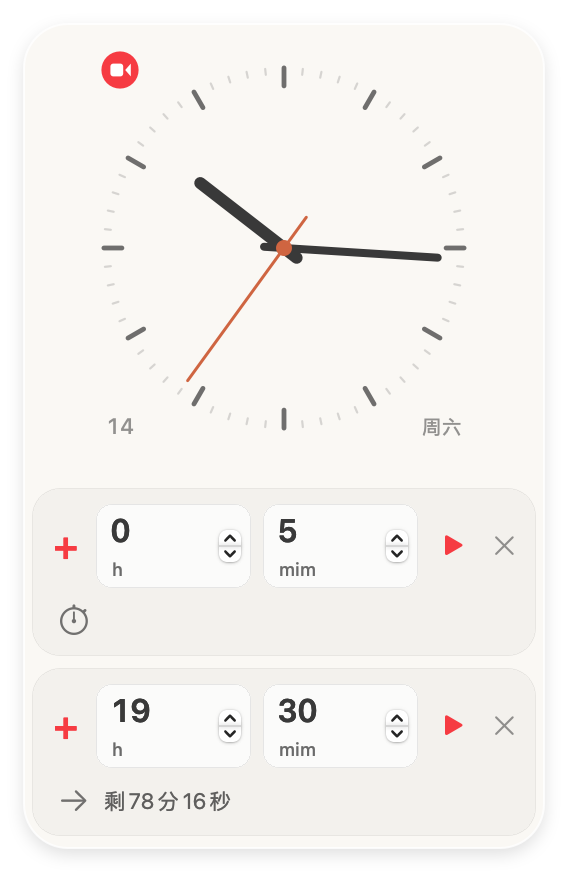
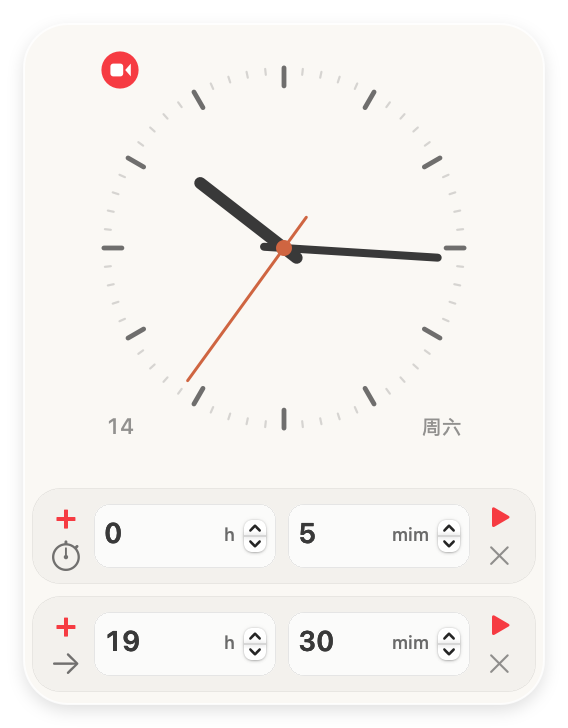
fix: polish timer input and interaction

diff --git a/Sources/FloatingClock/TimerTrayView.swift b/Sources/FloatingClock/TimerTrayView.swift
@@ -1,17 +1,24 @@
 import AppKit
 import ClockCore
 
+final class TimerActionButton: NSButton {
+    // Borderless image buttons have different optical insets from text buttons.
+    // Use their physical bounds so each compact column has equal, separate hits.
+    override var alignmentRectInsets: NSEdgeInsets { NSEdgeInsetsZero }
+}
+
 final class TimerRowView: NSView {
+    var preferredHeight: CGFloat { statusLabel.isHidden ? 48 : 64 }
     let id: UUID
-    let signButton = NSButton(title: "+", target: nil, action: nil)
+    let signButton = TimerActionButton(title: "+", target: nil, action: nil)
     let timeField = NSTextField(string: "")
     let durationInput = TimerTimeInput(kind: .duration)
     let targetInput = TimerTimeInput(kind: .targetTime)
-    let primaryButton = NSButton()
-    let deleteButton = NSButton()
-    let kindButton = NSButton()
+    let primaryButton = TimerActionButton()
+    let deleteButton = TimerActionButton()
+    let kindButton = TimerActionButton()
     let statusLabel = NSTextField(labelWithString: "")
-    let resetButton = NSButton(title: "重设", target: nil, action: nil)
+    let resetButton = TimerActionButton()
     var onSign: (() -> Void)?
     var onPrimary: (() -> Void)?
     var onDelete: (() -> Void)?
@@ -32,7 +39,7 @@ final class TimerRowView: NSView {
         wantsLayer = true
         layer?.cornerRadius = 14
         layer?.borderWidth = 0.5
-        signButton.font = .systemFont(ofSize: 20, weight: .medium)
+        signButton.font = .systemFont(ofSize: 17, weight: .medium)
         signButton.target = self; signButton.action = #selector(toggleSign)
         primaryButton.target = self; primaryButton.action = #selector(primary)
         deleteButton.target = self; deleteButton.action = #selector(deleteTimer)
@@ -40,8 +47,10 @@ final class TimerRowView: NSView {
         deleteButton.toolTip = "删除这组计时"
         deleteButton.setAccessibilityLabel("删除计时")
         resetButton.target = self; resetButton.action = #selector(resetTimer)
-        resetButton.font = .systemFont(ofSize: 11)
+        resetButton.image = NSImage(systemSymbolName: "arrow.counterclockwise", accessibilityDescription: "重设计时")
+        resetButton.setAccessibilityLabel("重设计时")
         resetButton.toolTip = "停止后重新设置时间"
+        resetButton.isHidden = true
         for button in [signButton, kindButton, primaryButton, deleteButton, resetButton] { button.isBordered = false }
         timeField.font = .monospacedDigitSystemFont(ofSize: 16, weight: .medium)
         timeField.isBezeled = false
@@ -66,29 +75,35 @@ final class TimerRowView: NSView {
         kindButton.target = self; kindButton.action = #selector(kindChanged)
         kindButton.imageScaling = .scaleProportionallyDown
         kindButton.symbolConfiguration = NSImage.SymbolConfiguration(pointSize: 14, weight: .regular)
-        statusLabel.font = .systemFont(ofSize: 11)
+        statusLabel.font = .systemFont(ofSize: 9)
         statusLabel.lineBreakMode = .byTruncatingTail
-        let line = NSStackView(views: [signButton, durationInput, targetInput, timeField, primaryButton, deleteButton])
-        line.orientation = .horizontal; line.alignment = .centerY; line.spacing = 5; line.distribution = .fill
-        let detail = NSStackView(views: [kindButton, statusLabel, NSView(), resetButton])
-        detail.orientation = .horizontal; detail.alignment = .centerY; detail.spacing = 4
-        for view in [line, detail] { view.translatesAutoresizingMaskIntoConstraints = false; addSubview(view) }
+        let leftControls = NSStackView(views: [signButton, kindButton, resetButton])
+        let rightControls = NSStackView(views: [primaryButton, deleteButton])
+        for column in [leftControls, rightControls] {
+            column.orientation = .vertical
+            column.alignment = .centerX
+            column.distribution = .fill
+            column.spacing = 1
+        }
+        let line = NSStackView(views: [leftControls, durationInput, targetInput, timeField, rightControls])
+        line.orientation = .horizontal; line.alignment = .centerY; line.spacing = 4; line.distribution = .fill
+        for view in [line, statusLabel] { view.translatesAutoresizingMaskIntoConstraints = false; addSubview(view) }
         NSLayoutConstraint.activate([
             line.leadingAnchor.constraint(equalTo: leadingAnchor, constant: 7),
             line.trailingAnchor.constraint(equalTo: trailingAnchor, constant: -7),
-            line.topAnchor.constraint(equalTo: topAnchor, constant: 8),
-            line.heightAnchor.constraint(equalToConstant: 42),
-            detail.leadingAnchor.constraint(equalTo: leadingAnchor, constant: 10),
-            detail.trailingAnchor.constraint(equalTo: trailingAnchor, constant: -10),
-            detail.topAnchor.constraint(equalTo: line.bottomAnchor, constant: 5),
-            detail.heightAnchor.constraint(equalToConstant: 23),
-            signButton.widthAnchor.constraint(equalToConstant: 20),
-            primaryButton.widthAnchor.constraint(equalToConstant: 24),
-            deleteButton.widthAnchor.constraint(equalToConstant: 18),
-            kindButton.widthAnchor.constraint(equalToConstant: 22),
-            kindButton.heightAnchor.constraint(equalToConstant: 22),
-            resetButton.widthAnchor.constraint(equalToConstant: 32)
+            line.centerYAnchor.constraint(equalTo: centerYAnchor),
+            line.heightAnchor.constraint(equalToConstant: 38),
+            statusLabel.leadingAnchor.constraint(equalTo: leadingAnchor, constant: 10),
+            statusLabel.trailingAnchor.constraint(equalTo: trailingAnchor, constant: -10),
+            statusLabel.bottomAnchor.constraint(equalTo: bottomAnchor, constant: -2),
+            statusLabel.heightAnchor.constraint(equalToConstant: 10),
+            leftControls.widthAnchor.constraint(equalToConstant: 20),
+            rightControls.widthAnchor.constraint(equalToConstant: 22)
         ])
+        for button in [signButton, kindButton, resetButton, primaryButton, deleteButton] {
+            button.widthAnchor.constraint(equalToConstant: 18).isActive = true
+            button.heightAnchor.constraint(equalToConstant: 18).isActive = true
+        }
     }
 
     required init?(coder: NSCoder) { fatalError("init(coder:) is not supported") }
@@ -135,10 +150,6 @@ final class TimerRowView: NSView {
             case .idle:
                 if editingDuration && durationInput.remainingSeconds > 0 {
                     statusLabel.stringValue = "另含 \(durationInput.remainingSeconds)秒"
-                } else if timer.inputKind == .targetTime,
-                          let target = try? TimerInputParser.targetDate(timer.input, now: now) {
-                    let remaining = TimerDisplayFormat.totalMinutes.string(seconds: target.timeIntervalSince(now), countingDown: true)
-                    statusLabel.stringValue = "剩\(remaining)"
                 } else { statusLabel.stringValue = "" }
             case .running: statusLabel.stringValue = timer.isOvertime ? "时间到了 · 正在累计超时" : (timer.mode == .elapsed ? "正在累计" : "倒计时中 · 到时通知")
             case .paused: statusLabel.stringValue = timer.isOvertime ? "超时已停止 · 可继续" : "已停止 · 可继续"
@@ -178,7 +189,7 @@ final class TimerRowView: NSView {
     @objc private func toggleSign() { window?.makeFirstResponder(nil); onSign?() }
     @objc private func primary() {
         guard window?.makeFirstResponder(nil) != false else { return }
-        if isIdle && currentInputKind == .targetTime { targetInput.commit() }
+        if isIdle { (currentInputKind == .targetTime ? targetInput : durationInput).commit() }
         onPrimary?()
     }
     @objc private func deleteTimer() { window?.makeFirstResponder(nil); onDelete?() }
@@ -198,12 +209,13 @@ final class TimerRowView: NSView {
 }
 
 final class TimerTrayView: NSView {
+    private static let rowSpacing: CGFloat = 6
     private let notice = NSTextField(labelWithString: "")
     private(set) var rows: [TimerRowView] = []
     var coordinator: TimerCoordinator?
 
-    static func height(count: Int, hasNotice: Bool) -> CGFloat {
-        count == 0 ? 0 : 8 + CGFloat(count) * 90 + (hasNotice ? 32 : 0)
+    var contentHeight: CGFloat {
+        rows.isEmpty ? 0 : 8 + rows.reduce(0) { $0 + $1.preferredHeight + Self.rowSpacing } + (notice.isHidden ? 0 : 32)
     }
 
     override init(frame frameRect: NSRect) {
@@ -254,8 +266,11 @@ final class TimerTrayView: NSView {
 
     override func layout() {
         super.layout()
-        for (index, row) in rows.enumerated() {
-            row.frame = CGRect(x: 4, y: bounds.height - 8 - CGFloat(index + 1) * 90 + 6, width: bounds.width - 8, height: 84)
+        var top = bounds.height - 8
+        for row in rows {
+            row.frame = CGRect(x: 4, y: top - row.preferredHeight,
+                               width: bounds.width - 8, height: row.preferredHeight)
+            top = row.frame.minY - Self.rowSpacing
         }
         notice.frame = CGRect(x: 10, y: 8, width: bounds.width - 20, height: 18)
     }

diff --git a/Sources/FloatingClock/RuntimeChecks.swift b/Sources/FloatingClock/RuntimeChecks.swift
@@ -293,6 +293,43 @@ enum RuntimeChecks {
         check(timerPanel.timerTray.rows.allSatisfy { $0.bounds.contains($0.convert($0.deleteButton.bounds, from: $0.deleteButton)) },
               "timer row controls fit within the expanded card")
         let row = timerPanel.timerTray.rows[0]
+        func stackedButtons(in row: TimerRowView) -> Bool {
+            let left = [row.signButton, row.kindButton, row.resetButton].filter { !$0.isHidden }
+                .map { row.convert($0.bounds, from: $0) }
+            let right = [row.primaryButton, row.deleteButton].map { row.convert($0.bounds, from: $0) }
+            func validColumn(_ frames: [CGRect]) -> Bool {
+                frames.allSatisfy { row.bounds.contains($0) && abs($0.midX - frames[0].midX) < 1 } &&
+                zip(frames, frames.dropFirst()).allSatisfy { !$0.intersects($1) }
+            }
+            let leftBounds = left.reduce(CGRect.null) { $0.union($1) }
+            let rightBounds = right.reduce(CGRect.null) { $0.union($1) }
+            return validColumn(left) && validColumn(right) && abs(leftBounds.midY - rightBounds.midY) < 1 &&
+                abs(leftBounds.midY - row.bounds.midY) < 1
+        }
+        timerPanel.makeFirstResponder(row.durationInput.minutes.field)
+        row.durationInput.minutes.field.selectText(nil)
+        if let editor = row.durationInput.minutes.field.currentEditor() as? NSTextView {
+            editor.insertText("9999", replacementRange: editor.selectedRange())
+            editor.insertText("9", replacementRange: NSRange(location: editor.string.utf16.count, length: 0))
+        }
+        let fifthDigitWasRejected = row.durationInput.minutes.field.currentEditor()?.string == "9999"
+        row.durationInput.minutes.field.selectText(nil)
+        if let editor = row.durationInput.minutes.field.currentEditor() as? NSTextView {
+            editor.insertText("1234567", replacementRange: editor.selectedRange())
+        }
+        check(fifthDigitWasRejected && row.durationInput.minutes.field.currentEditor()?.string == "9999",
+              "number fields immediately reject a fifth digit and a paste longer than four digits")
+        timerPanel.makeFirstResponder(nil)
+        row.durationInput.hours.update(value: 9999)
+        row.durationInput.minutes.update(value: 9999)
+        row.durationInput.commit()
+        timerPanel.face.layoutSubtreeIfNeeded()
+        let fourDigitWidth = ceil("9999".size(withAttributes: [.font: row.durationInput.hours.field.font!]).width) + 4
+        check(stackedButtons(in: row) && timerPanel.frame.width == 284 && [row.durationInput.hours, row.durationInput.minutes].allSatisfy { input in
+            input.field.bounds.width >= fourDigitWidth && row.bounds.contains(row.convert(input.stepper.bounds, from: input.stepper))
+        } && row.durationInput.hours.value == 9999 && row.durationInput.minutes.value == 9999,
+              "both four-digit inputs fit at the original window width with buttons stacked on each side")
+        timers.editInput(row.id, text: "5")
         row.durationInput.minutes.field.integerValue = 90
         row.durationInput.minutes.controlTextDidEndEditing(Notification(name: NSControl.textDidEndEditingNotification))
         check(!row.durationInput.isHidden && row.timeField.isHidden && row.durationInput.hours.value == 1 && row.durationInput.minutes.value == 30,
@@ -324,6 +361,8 @@ enum RuntimeChecks {
         row.primaryButton.performClick(nil)
         check(timers.timers[0].state == .paused && scheduler.cancelled.contains(row.id),
               "stop preserves remaining time and cancels its pending notification")
+        timerPanel.face.layoutSubtreeIfNeeded()
+        check(!row.resetButton.isHidden && stackedButtons(in: row), "the paused timer reset icon joins the left button column")
         row.resetButton.performClick(nil)
         check(timers.timers[0].state == .idle && !row.durationInput.isHidden && row.durationInput.minutes.field.isEditable,
               "reset restores the editable input")
@@ -395,7 +434,7 @@ enum RuntimeChecks {
             check(timers.timers.count == 2 && tray.rows.count == 2 && attachedRows.count == 2 &&
                   Set(attachedRows.map(\.id)) == Set(timers.timers.map(\.id)) && !attachedRows.contains { $0.id == removed },
                   "deleting row \(deletedIndex + 1) while the last input is focused leaves exactly two attached rows")
-            check(tray.rows.allSatisfy { tray.bounds.contains($0.frame) && $0.frame.height == 84 } &&
+            check(tray.rows.allSatisfy { tray.bounds.contains($0.frame) && $0.frame.height == $0.preferredHeight } &&
                   !tray.rows[0].frame.intersects(tray.rows[1].frame),
                   "deleting row \(deletedIndex + 1) keeps the two remaining row frames separate inside the tray")
             for id in timers.timers.map(\.id) { timers.remove(id) }
@@ -642,6 +681,15 @@ enum RuntimeChecks {
                             panel.appearance?.performAsCurrentDrawingAppearance { view.cacheDisplay(in: view.bounds, to: editors) }
                             try editors.representation(using: .png, properties: [:])!.write(
                                 to: URL(fileURLWithPath: directory).appendingPathComponent("timer-editors-\(appearance.rawValue)-\(count)-\(side).png"))
+                            if count == 1 {
+                                timers.editInput(added, text: "9999小时9999分钟")
+                                panel.face.layoutSubtreeIfNeeded()
+                                let full = view.bitmapImageRepForCachingDisplay(in: view.bounds)!
+                                panel.appearance?.performAsCurrentDrawingAppearance { view.cacheDisplay(in: view.bounds, to: full) }
+                                try full.representation(using: .png, properties: [:])!.write(
+                                    to: URL(fileURLWithPath: directory).appendingPathComponent("timer-four-digits-\(appearance.rawValue)-\(side).png"))
+                                timers.editInput(added, text: "5")
+                            }
                         }
                     }
                     panel.hideClock()

diff --git a/Sources/FloatingClock/TimerTimeInput.swift b/Sources/FloatingClock/TimerTimeInput.swift
@@ -1,6 +1,25 @@
 import AppKit
 import ClockCore
 
+private final class TimerNumberFormatter: NumberFormatter, @unchecked Sendable {
+    private func allows(_ text: String) -> Bool {
+        text.count <= 4 && text.allSatisfy { $0.isASCII && $0.isNumber }
+    }
+
+    override func isPartialStringValid(_ partialString: String,
+                                      newEditingString: AutoreleasingUnsafeMutablePointer<NSString?>?,
+                                      errorDescription: AutoreleasingUnsafeMutablePointer<NSString?>?) -> Bool {
+        allows(partialString)
+    }
+
+    override func isPartialStringValid(_ partialStringPtr: AutoreleasingUnsafeMutablePointer<NSString>,
+                                      proposedSelectedRange: NSRangePointer?, originalString: String,
+                                      originalSelectedRange: NSRange,
+                                      errorDescription: AutoreleasingUnsafeMutablePointer<NSString?>?) -> Bool {
+        allows(partialStringPtr.pointee as String)
+    }
+}
+
 /// A number field with a native up/down stepper and a persistent unit label.
 final class TimerNumberInput: NSView, NSTextFieldDelegate {
     let field = NSTextField(string: "0")
@@ -19,23 +38,26 @@ final class TimerNumberInput: NSView, NSTextFieldDelegate {
         wantsLayer = true
         layer?.cornerRadius = 8
         layer?.borderWidth = 0.5
-        let formatter = NumberFormatter()
+        let formatter = TimerNumberFormatter()
         formatter.numberStyle = .none
         formatter.allowsFloats = false
         formatter.minimumIntegerDigits = minimumDigits
         formatter.minimum = 0
         formatter.maximum = NSNumber(value: maximum)
+        formatter.isPartialStringValidationEnabled = true
         field.formatter = formatter
         field.isBezeled = false
         field.drawsBackground = false
         field.focusRingType = .none
-        field.font = .monospacedDigitSystemFont(ofSize: 16, weight: .semibold)
+        field.font = .monospacedDigitSystemFont(ofSize: 14, weight: .semibold)
         field.usesSingleLineMode = true
         field.cell?.sendsActionOnEndEditing = false
         field.delegate = self
         field.setAccessibilityLabel(accessibilityLabel ?? unit)
         field.setContentCompressionResistancePriority(.defaultLow, for: .horizontal)
         unitLabel.font = .systemFont(ofSize: 9, weight: .medium)
+        unitLabel.setContentHuggingPriority(.required, for: .horizontal)
+        unitLabel.setContentCompressionResistancePriority(.required, for: .horizontal)
         stepper.minValue = 0
         stepper.maxValue = Double(maximum)
         stepper.increment = 1
@@ -50,14 +72,15 @@ final class TimerNumberInput: NSView, NSTextFieldDelegate {
             addSubview(view)
         }
         NSLayoutConstraint.activate([
-            widthAnchor.constraint(greaterThanOrEqualToConstant: 60),
-            heightAnchor.constraint(equalToConstant: 42),
-            field.leadingAnchor.constraint(equalTo: leadingAnchor, constant: 7),
-            field.trailingAnchor.constraint(equalTo: stepper.leadingAnchor, constant: -2),
-            field.topAnchor.constraint(equalTo: topAnchor, constant: 4),
+            widthAnchor.constraint(greaterThanOrEqualToConstant: 90),
+            heightAnchor.constraint(equalToConstant: 32),
+            field.leadingAnchor.constraint(equalTo: leadingAnchor, constant: 5),
+            field.trailingAnchor.constraint(equalTo: unitLabel.leadingAnchor, constant: -4),
+            field.centerYAnchor.constraint(equalTo: centerYAnchor),
             field.heightAnchor.constraint(equalToConstant: 21),
-            unitLabel.leadingAnchor.constraint(equalTo: field.leadingAnchor, constant: 1),
-            unitLabel.bottomAnchor.constraint(equalTo: bottomAnchor, constant: -4),
+            field.widthAnchor.constraint(greaterThanOrEqualToConstant: ceil("9999".size(withAttributes: [.font: field.font!]).width) + 4),
+            unitLabel.firstBaselineAnchor.constraint(equalTo: field.firstBaselineAnchor),
+            unitLabel.trailingAnchor.constraint(equalTo: stepper.leadingAnchor, constant: -4),
             stepper.trailingAnchor.constraint(equalTo: trailingAnchor, constant: -5),
             stepper.centerYAnchor.constraint(equalTo: centerYAnchor)
         ])
@@ -120,8 +143,8 @@ final class TimerTimeInput: NSStackView {
 
     init(kind: ClockTimerInput) {
         self.kind = kind
-        hours = TimerNumberInput(unit: "h", maximum: kind == .duration ? 16_666 : 23, minimumDigits: kind == .duration ? 1 : 2, accessibilityLabel: "小时")
-        minutes = TimerNumberInput(unit: "mim", maximum: kind == .duration ? 999_999 : 59, minimumDigits: kind == .duration ? 1 : 2, accessibilityLabel: "分钟")
+        hours = TimerNumberInput(unit: "h", maximum: kind == .duration ? 9_999 : 23, minimumDigits: kind == .duration ? 1 : 2, accessibilityLabel: "小时")
+        minutes = TimerNumberInput(unit: "mim", maximum: kind == .duration ? 9_999 : 59, minimumDigits: kind == .duration ? 1 : 2, accessibilityLabel: "分钟")
         super.init(frame: .zero)
         orientation = .horizontal
         distribution = .fillEqually
@@ -164,8 +187,9 @@ final class TimerTimeInput: NSStackView {
         guard let seconds = try? TimerInputParser.duration(unsigned) else { return }
         let whole = Int(seconds)
         remainingSeconds = seconds.truncatingRemainder(dividingBy: 60)
-        hours.update(value: whole / 3600)
-        minutes.update(value: whole / 60 % 60)
+        let displayedHours = min(9_999, whole / 3600)
+        hours.update(value: displayedHours)
+        minutes.update(value: (whole - displayedHours * 3600) / 60)
     }
 
     func apply(ink: NSColor, dark: Bool) {

diff --git a/Sources/FloatingClock/ClockPanel.swift b/Sources/FloatingClock/ClockPanel.swift
@@ -94,11 +94,10 @@ final class ClockPanel: NSPanel, NSWindowDelegate {
     }
 
     func refreshTimers() {
-        let height = TimerTrayView.height(count: timerCoordinator?.timers.count ?? 0,
-                                         hasNotice: timerCoordinator?.notificationMessage != nil)
+        timerTray.refresh(settings: settings)
+        let height = timerTray.contentHeight
         let newFooterHeight: CGFloat = timerCoordinator?.timers.count == 1 ? 28 : 0
         timerHint.isHidden = newFooterHeight == 0
-        timerTray.refresh(settings: settings)
         timerTray.isHidden = height == 0
         if height != trayHeight || footerHeight != newFooterHeight {
             let dial = clockScreenFrame

diff --git a/README.md b/README.md
@@ -157,11 +157,11 @@ open dist/FloatingClock.app
 | 重设 | 停止或结束后回到可编辑状态 |
 | `×` | 删除这一组，同时取消它的待发送通知 |
 
-计时区已去掉顶部数量标题和“设置后点 ▶”提示。左下角的机械计时器图标表示时长，箭头表示到点时间，点击该图标即可切换。只有一组计时时，窗口最底部显示“＋ 倒计时 · − 累计时间”；两组及以上时隐藏。
+计时区已去掉顶部数量标题和“设置后点 ▶”提示。左侧按钮上下叠放：正负号在上，机械计时器／箭头模式图标在下，点击模式图标即可切换。右侧开始／删除也上下叠放；停止后的重设图标位于左侧。只有一组计时时，窗口最底部显示“＋ 倒计时 · − 累计时间”；两组及以上时隐藏。
 
-时长通过两个独立的 **小时 / 分钟数字框** 设置（单位显示为小写 `h`、`mim`），每个框旁都有原生上下箭头，可直接输入数字或点击调节。修改完成后点击 ▶ 或按回车开始。分钟也可填 `90`，提交后会自动换算为 `1 小时 30 分钟`。旧版保存的混合单位时长会自动显示在新控件中，其中的秒数会保留并在下方提示。
+时长通过两个独立的 **小时 / 分钟数字框** 设置（单位显示为小写 `h`、`mim`），数字与单位排在同一行，每个框旁都有原生上下箭头，可直接输入数字或点击调节。每框最多四位数字（0～9999），第五位及超过四位的粘贴会即时拒绝；到点时间仍限制为 00～23 时、00～59 分。窗口保持原宽度，四位数字均可完整显示。修改完成后点击 ▶ 或按回车开始。分钟也可填 `90`，提交后会自动换算为 `1 小时 30 分钟`。旧版保存的混合单位时长会自动显示在新控件中，其中的秒数会保留并在下方提示。
 
-例如，`＋00分02秒 → ＋00分01秒 → −00分00秒 → −00分01秒`。负数表示已经超过设定时间多久，直到停止或删除；停止后可继续累计。到点提醒同样会在到点后进入超时计时。到点时间使用与时长相同的两个数字框，小时范围为 00～23，分钟为 00～59。小时输入两位后，光标自动跳到分钟框并选中原值，连续键入 `1930` 即可设置 19 点 30 分，也支持直接粘贴四位数字，无需输入冒号或用鼠标切换。切换到“到点时间”默认预填下一分钟并选中小时框，编辑时会预览剩余时长；开始计时以最终填写的时刻为准，例如 18:34 设置 18:40，剩余 6 分钟。
+例如，`＋00分02秒 → ＋00分01秒 → −00分00秒 → −00分01秒`。负数表示已经超过设定时间多久，直到停止或删除；停止后可继续累计。到点提醒同样会在到点后进入超时计时。到点时间使用与时长相同的两个数字框，小时范围为 00～23，分钟为 00～59。小时输入两位后，光标自动跳到分钟框并选中原值，连续键入 `1930` 即可设置 19 点 30 分，也支持直接粘贴四位数字，无需输入冒号或用鼠标切换。切换到“到点时间”默认预填下一分钟并选中小时框，编辑时不显示剩余时长提示，输入与按钮在计时行的圆角矩形内垂直居中；开始计时以最终填写的时刻为准，例如 18:34 设置 18:40，剩余 6 分钟。
 
 倒计时开始时，macOS 会请求通知权限，请允许“漂浮时钟”发送通知。拒绝或安排失败时，计时区会显示提示；可到 **系统设置 → 通知 → 漂浮时钟** 开启。通知是否显示横幅和声音也受系统通知设置、专注模式影响。
 
@@ -370,7 +370,7 @@ bash scripts/test.sh
 
 原生检查会短暂显示测试窗口，使用独立的临时 UserDefaults 域，完成后清理测试偏好；不会写入用户实际的时钟设置。通知调度使用替代实现验证安排、取消和延迟回调，不会在测试中请求系统通知授权。
 
-当前合并版本已通过 **33 项核心测试、119 项原生检查**。覆盖内容包括：
+当前合并版本已通过 **33 项核心测试、122 项原生检查**。覆盖内容包括：
 
 - 时间计算、设置边界、保存和旧版迁移。
 - 高级设置窗口打开、关闭和复用。
